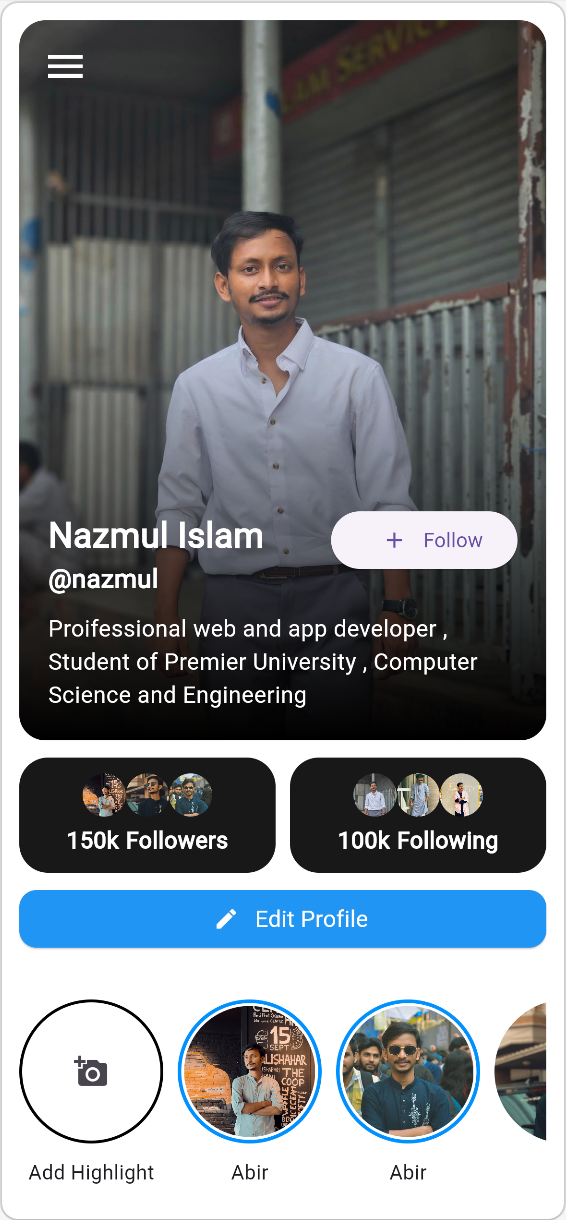
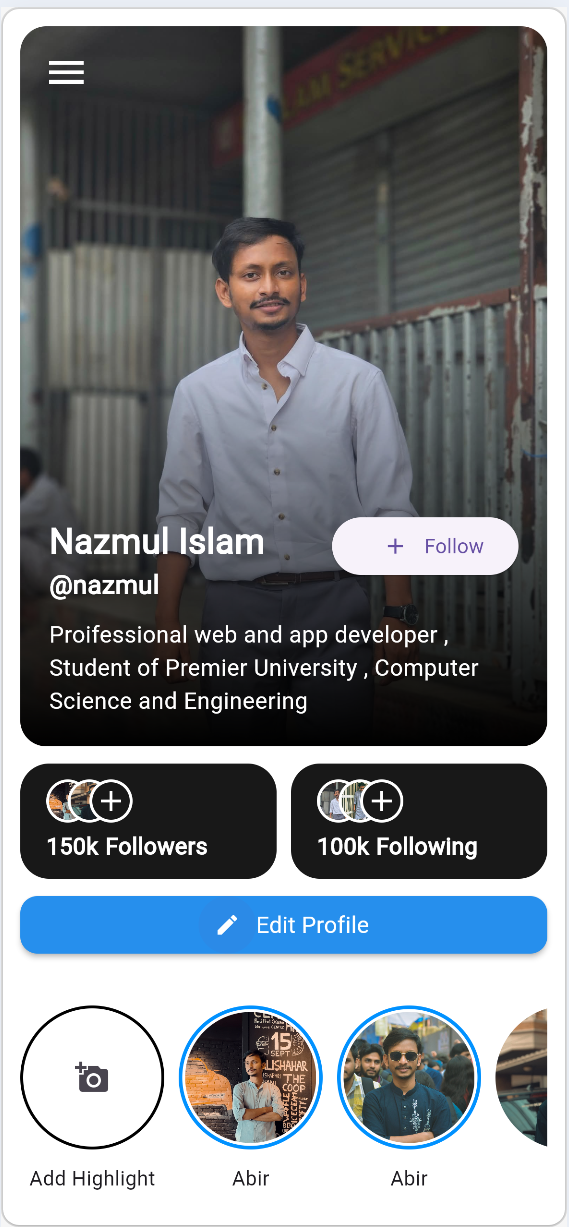
Stack updated

diff --git a/lib/profile.dart b/lib/profile.dart
@@ -322,77 +322,107 @@ class profile extends StatelessWidget {
                 borderRadius: BorderRadius.circular(20),
                 color: const Color.fromARGB(255, 24, 24, 24),
               ),
-              child: Column(
-                mainAxisAlignment: MainAxisAlignment.center,
-                crossAxisAlignment: CrossAxisAlignment.center,
-                children: [
-                  Container(
-                    decoration: BoxDecoration(shape: BoxShape.circle),
-                    child: Row(
-                      mainAxisAlignment: MainAxisAlignment.center,
-                      children: [
-                        Container(
-                          height: 30,
-                          width: 30,
-                          child: ClipRRect(
-                            borderRadius: BorderRadiusGeometry.circular(100),
-                            child: Image.asset(
-                              '454714502_1605822709983642_3052178341574807126_n.jpg',
-                              fit: BoxFit.cover,
+              child: Padding(
+                padding: const EdgeInsets.only(left: 18, right: 18),
+                child: Column(
+                  mainAxisAlignment: MainAxisAlignment.center,
+                  crossAxisAlignment: CrossAxisAlignment.start,
+
+                  children: [
+                    Container(
+                      decoration: BoxDecoration(shape: BoxShape.circle),
+                      child: Stack(
+                        clipBehavior: Clip.none,
+                        children: [
+                          Container(
+                            height: 30,
+                            width: 30,
+                            decoration: BoxDecoration(
+                              border: Border.all(width: 2, color: Colors.white),
+                              shape: BoxShape.circle,
+                            ),
+                            child: ClipRRect(
+                              borderRadius: BorderRadiusGeometry.circular(100),
+                              child: Image.asset(
+                                '454714502_1605822709983642_3052178341574807126_n.jpg',
+                                fit: BoxFit.cover,
+                              ),
                             ),
                           ),
-                        ),
-                        Container(
-                          height: 30,
-                          width: 30,
-                          child: ClipRRect(
-                            borderRadius: BorderRadiusGeometry.circular(100),
-                            child: Image.asset(
-                              '480738932_1739633569935888_4729460214236419955_n.jpg',
-                              fit: BoxFit.cover,
+                          Positioned(
+                            left: 15,
+                            child: Container(
+                              height: 30,
+                              width: 30,
+                              decoration: BoxDecoration(
+                                border: Border.all(
+                                  width: 2,
+                                  color: Colors.white,
+                                ),
+                                shape: BoxShape.circle,
+                              ),
+                              child: ClipRRect(
+                                borderRadius: BorderRadiusGeometry.circular(
+                                  100,
+                                ),
+                                child: Image.asset(
+                                  '480738932_1739633569935888_4729460214236419955_n.jpg',
+                                  fit: BoxFit.cover,
+                                ),
+                              ),
                             ),
                           ),
-                        ),
-                        Container(
-                          height: 30,
-                          width: 30,
-                          child: ClipRRect(
-                            borderRadius: BorderRadiusGeometry.circular(100),
-                            child: Image.asset(
-                              '483555508_1756483494917562_3101317641058297300_n.jpg',
-                              fit: BoxFit.cover,
+
+                          Positioned(
+                            left: 30,
+                            child: Container(
+                              height: 30,
+                              width: 30,
+                              decoration: BoxDecoration(
+                                border: Border.all(
+                                  width: 2,
+                                  color: Colors.white,
+                                ),
+                                color: const Color.fromARGB(255, 24, 24, 24),
+                                shape: BoxShape.circle,
+                              ),
+                              child: ClipRRect(
+                                borderRadius: BorderRadiusGeometry.circular(
+                                  100,
+                                ),
+                                child: Icon(Icons.add, color: Colors.white),
+                              ),
                             ),
                           ),
-                        ),
-                      ],
+                        ],
+                      ),
                     ),
-                  ),
-                  SizedBox(height: 5),
-                  Container(
-                    child: Row(
-                      mainAxisAlignment: MainAxisAlignment.center,
-                      children: [
-                        Text(
-                          "150k",
-                          style: TextStyle(
-                            color: Colors.white,
-                            fontSize: 16,
-                            fontWeight: FontWeight.bold,
+                    SizedBox(height: 5),
+                    Container(
+                      child: Row(
+                        children: [
+                          Text(
+                            "150k",
+                            style: TextStyle(
+                              color: Colors.white,
+                              fontSize: 16,
+                              fontWeight: FontWeight.bold,
+                            ),
                           ),
-                        ),
-                        SizedBox(width: 5),
-                        Text(
-                          "Followers",
-                          style: TextStyle(
-                            color: Colors.white,
-                            fontSize: 16,
-                            fontWeight: FontWeight.w600,
+                          SizedBox(width: 5),
+                          Text(
+                            "Followers",
+                            style: TextStyle(
+                              color: Colors.white,
+                              fontSize: 16,
+                              fontWeight: FontWeight.w600,
+                            ),
                           ),
-                        ),
-                      ],
+                        ],
+                      ),
                     ),
-                  ),
-                ],
+                  ],
+                ),
               ),
             ),
           ),
@@ -405,77 +435,107 @@ class profile extends StatelessWidget {
                 borderRadius: BorderRadius.circular(20),
                 color: const Color.fromARGB(255, 24, 24, 24),
               ),
-              child: Column(
-                mainAxisAlignment: MainAxisAlignment.center,
-                crossAxisAlignment: CrossAxisAlignment.center,
-                children: [
-                  Container(
-                    decoration: BoxDecoration(shape: BoxShape.circle),
-                    child: Row(
-                      mainAxisAlignment: MainAxisAlignment.center,
-                      children: [
-                        Container(
-                          height: 30,
-                          width: 30,
-                          child: ClipRRect(
-                            borderRadius: BorderRadiusGeometry.circular(100),
-                            child: Image.asset(
-                              'FB_IMG_1774940215681.jpg.',
-                              fit: BoxFit.cover,
+              child: Padding(
+                padding: const EdgeInsets.only(left: 18, right: 18),
+                child: Column(
+                  mainAxisAlignment: MainAxisAlignment.center,
+                  crossAxisAlignment: CrossAxisAlignment.start,
+
+                  children: [
+                    Container(
+                      decoration: BoxDecoration(shape: BoxShape.circle),
+                      child: Stack(
+                        clipBehavior: Clip.none,
+                        children: [
+                          Container(
+                            height: 30,
+                            width: 30,
+                            decoration: BoxDecoration(
+                              border: Border.all(width: 2, color: Colors.white),
+                              shape: BoxShape.circle,
+                            ),
+                            child: ClipRRect(
+                              borderRadius: BorderRadiusGeometry.circular(100),
+                              child: Image.asset(
+                                'FB_IMG_1774940215681.jpg.',
+                                fit: BoxFit.cover,
+                              ),
                             ),
                           ),
-                        ),
-                        Container(
-                          height: 30,
-                          width: 30,
-                          child: ClipRRect(
-                            borderRadius: BorderRadiusGeometry.circular(100),
-                            child: Image.asset(
-                              '654299492_2064424464123462_1105435852741189062_n.jpg',
-                              fit: BoxFit.cover,
+                          Positioned(
+                            left: 15,
+                            child: Container(
+                              height: 30,
+                              width: 30,
+                              decoration: BoxDecoration(
+                                border: Border.all(
+                                  width: 2,
+                                  color: Colors.white,
+                                ),
+                                shape: BoxShape.circle,
+                              ),
+                              child: ClipRRect(
+                                borderRadius: BorderRadiusGeometry.circular(
+                                  100,
+                                ),
+                                child: Image.asset(
+                                  '654299492_2064424464123462_1105435852741189062_n.jpg',
+                                  fit: BoxFit.cover,
+                                ),
+                              ),
                             ),
                           ),
-                        ),
-                        Container(
-                          height: 30,
-                          width: 30,
-                          child: ClipRRect(
-                            borderRadius: BorderRadiusGeometry.circular(100),
-                            child: Image.asset(
-                              '628225991_2024501181449124_6444500452461940511_n.jpg',
-                              fit: BoxFit.cover,
+
+                          Positioned(
+                            left: 30,
+                            child: Container(
+                              height: 30,
+                              width: 30,
+                              decoration: BoxDecoration(
+                                border: Border.all(
+                                  width: 2,
+                                  color: Colors.white,
+                                ),
+                                color: const Color.fromARGB(255, 24, 24, 24),
+                                shape: BoxShape.circle,
+                              ),
+                              child: ClipRRect(
+                                borderRadius: BorderRadiusGeometry.circular(
+                                  100,
+                                ),
+                                child: Icon(Icons.add, color: Colors.white),
+                              ),
                             ),
                           ),
-                        ),
-                      ],
+                        ],
+                      ),
                     ),
-                  ),
-                  SizedBox(height: 5),
-                  Container(
-                    child: Row(
-                      mainAxisAlignment: MainAxisAlignment.center,
-                      children: [
-                        Text(
-                          "100k",
-                          style: TextStyle(
-                            color: Colors.white,
-                            fontSize: 16,
-                            fontWeight: FontWeight.bold,
+                    SizedBox(height: 5),
+                    Container(
+                      child: Row(
+                        children: [
+                          Text(
+                            "100k",
+                            style: TextStyle(
+                              color: Colors.white,
+                              fontSize: 16,
+                              fontWeight: FontWeight.bold,
+                            ),
                           ),
-                        ),
-                        SizedBox(width: 5),
-                        Text(
-                          "Following",
-                          style: TextStyle(
-                            color: Colors.white,
-                            fontSize: 16,
-                            fontWeight: FontWeight.w600,
+                          SizedBox(width: 5),
+                          Text(
+                            "Following",
+                            style: TextStyle(
+                              color: Colors.white,
+                              fontSize: 16,
+                              fontWeight: FontWeight.w600,
+                            ),
                           ),
-                        ),
-                      ],
+                        ],
+                      ),
                     ),
-                  ),
-                ],
+                  ],
+                ),
               ),
             ),
           ),
